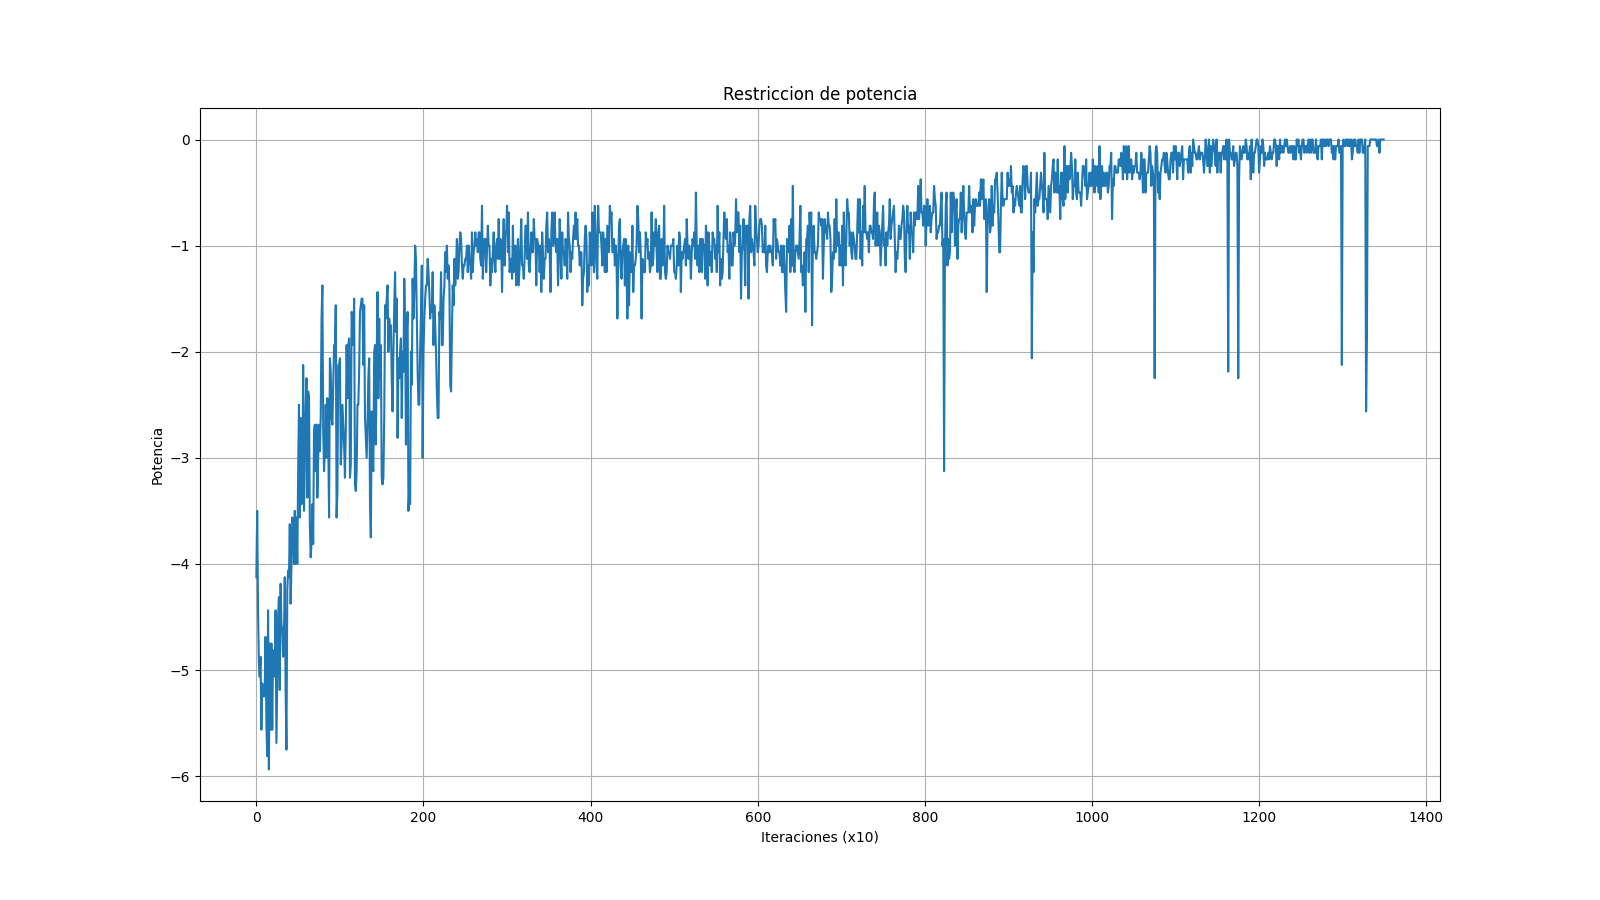
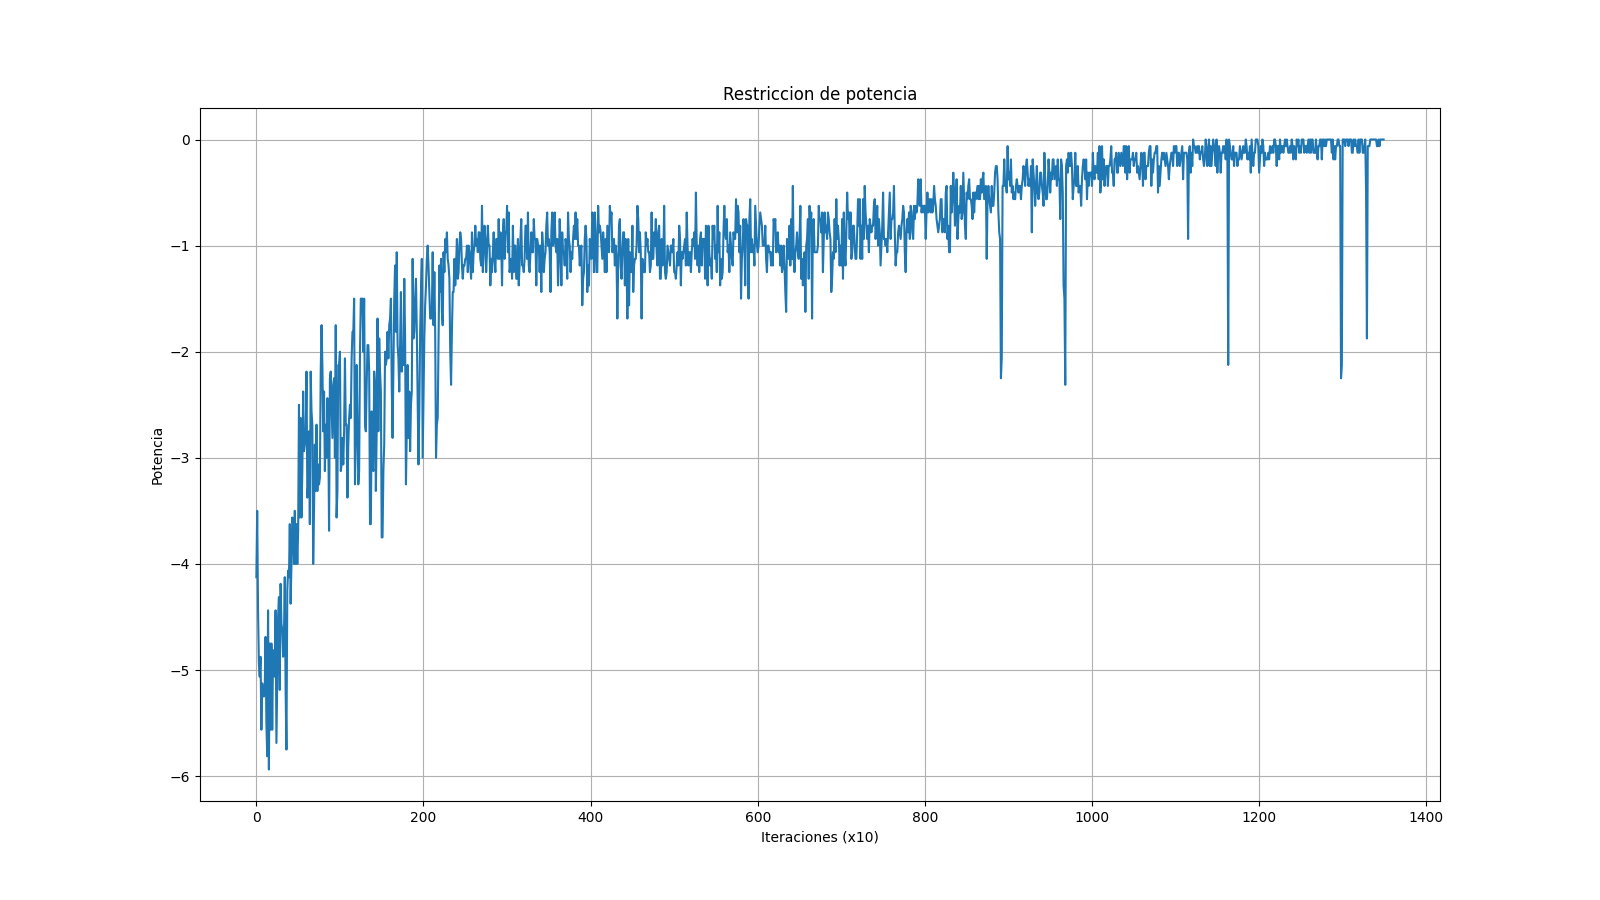
Probamos rate por enlace, dado que eligió tal canal

diff --git a/RUN/utils.py b/RUN/utils.py
@@ -170,7 +170,7 @@ def get_gnn_inputs(x_tensor, channel_matrix_tensor):
     return input_list
 
 def objective_function(rates):
-    sum_rate = -torch.sum(rates, dim=1)
+    sum_rate = -torch.sum(rates, dim=(1,2))
     return sum_rate
 
 # def power_constraint(phi, pmax):
@@ -196,158 +196,77 @@ def get_rates(phi, channel_matrix_batch, sigma):
     rates = torch.log(numerator / denominator + 1)
     return rates
 
+
+# # # Lo que hizo mauri:
+def nuevo_get_rates(phi, channel_matrix_batch, sigma, p0=4):
+    """
+    phi: [batch_size, num_links, num_channels] (potencia por canal)
+    channel_matrix_batch: [batch_size, num_links, num_links] (ganancias |h_ji|^2)
+    sigma: ruido
+    p0: potencia por canal cuando está activo
+    """
+    batch_size, num_links, num_channels = phi.shape
+
+    # # Calcular potencia total por enlace (p_i)
+    # p_i = torch.sum(phi, dim=2)  # [64, 5]
+
+    rates = torch.zeros(batch_size, num_links, num_channels)  
+
+    for ch in range(num_channels):
+            p_i = phi[:,:,ch]
+            # Obtener ganancias directas (|h_ii|^2)
+            diag_gains = torch.diagonal(channel_matrix_batch, dim1=1, dim2=2)  # [64, 5]
+            
+            # Calcular numerador |h_ii|^2 * p_i
+            numerator = diag_gains * p_i  # [64, 5]
+            # Calcular interferencia (término ∑)
+            interference = torch.zeros(batch_size, num_links, device=phi.device)
+            
+            # Máscara para enlaces transmitiendo en este canal
+            transmitting = (phi[:, :, ch] > 0).float()  # [batch_size, num_links]
+            
+            # Potencia transmitida en este canal (p0 o 0)
+            p_ch = transmitting*p0  # [batch_size, num_links]
+            
+            # Calcular interferencia generada por este canal
+            interf_ch = torch.matmul(channel_matrix_batch.float(), p_ch.unsqueeze(2).float()).squeeze(2)  # [batch_size, num_links]
+            
+            # Restar auto-interferencia
+            interf_ch = torch.abs(interf_ch - diag_gains * p_ch)
+            
+            # Aplicar factor de escala (p_i^T/p0)
+            scale_factor = (phi[:, :, ch] > 0).float()  # [batch_size, num_links]
+            interf_ch = interf_ch * (p_i / p0) * scale_factor
+            interference += interf_ch
+            rates[:,:,ch]= torch.log1p(numerator / (sigma + interference))  # [batch_size, num_links]
+    return rates
+
+
 # def nuevo_get_rates(phi, channel_matrix_batch, sigma, p0=4):
-#     # phi = torch.squeeze(phi, dim = 2) #(64,5,4) , channel_matrix_batch (64,5,5)
-#     numerator = torch.unsqueeze(torch.diagonal(channel_matrix_batch, dim1=1, dim2=2) * phi, dim=2)
-#     expanded_phi = phi.unsqueeze(2)
-#     denominator = (torch.matmul(channel_matrix_batch.float(), expanded_phi.float()) - numerator)*expanded_phi/p0 + sigma
-#     rates = torch.log(numerator / denominator + 1)
-#     return rates
-
-# Lo que había hecho yo:
-# def nuevo_get_rates(phi, channel_matrix_batch, sigma, p0=4):
-#     # phi: [batch_size, num_links, output_dim]
-#     # channel_matrix_batch: [batch_size, num_links, num_links]
-#     channel_matrix_batch = channel_matrix_batch.float()
-#     phi = phi.float()
-
-#     batch_size, num_links, output_dim = phi.shape
-
-#     rates = torch.zeros((batch_size, num_links), device=phi.device)
-
-#     for k in range(output_dim):  # Para cada canal
-#         # phi_k: [batch_size, num_links] (nodos que usan canal k)
-#         phi_k = phi[:, :, k]  # Potencia asignada al canal k para cada nodo
-
-#         # h_ii: [batch_size, num_links] (ganancia directa en canal k)
-#         h_ii = torch.diagonal(channel_matrix_batch, dim1=1, dim2=2)
-
-#         # Interferencia: suma de potencias de otros nodos en canal k
-#         # channel_matrix_batch: [batch_size, num_links, num_links]
-#         # phi_k: [batch_size, num_links]
-#         interference = torch.matmul(channel_matrix_batch, phi_k.unsqueeze(2)).squeeze(2) - h_ii * phi_k
-
-#         # Numerador y denominador según la fórmula
-#         numerator = h_ii * phi_k
-#         denominator = sigma + interference * (phi_k / p0)
-
-#         # Solo sumar la tasa si el nodo está usando ese canal (phi_k > 0)
-#         rates += torch.log1p(numerator / (denominator + 1e-10)) * (phi_k > 0).float()
-
-#     return rates  # [batch_size, num_links]
-
-# # Lo que hizo mauri:
-# def nuevo_get_rates(phi, channel_matrix_batch, sigma, p0=4):
 #     """
-#     phi: [batch_size, num_links, num_channels] (potencia por canal)
-#     channel_matrix_batch: [batch_size, num_links, num_links] (ganancias |h_ji|^2)
-#     sigma: ruido
-#     p0: potencia por canal cuando está activo
+#     phi: [B, L, C] (potencia por canal)
+#     channel_matrix_batch: [B, L, L] (ganancias |h_ji|^2)
+#     sigma: [B] o [B, 1]
 #     """
-#     batch_size, num_links, num_channels = phi.shape
-    
-#     #[0,0,p0]. p0
-#     #[0,p0,0] p0
-#     #[0,0,0] 0
-#     #[p0,0,0] p0
-#     #[p0,0,0] p0
-#     # Calcular potencia total por enlace (p_i)
-#     p_i = torch.sum(phi, dim=2)  # [64, 5]
-#     # Obtener ganancias directas (|h_ii|^2)
-#     diag_gains = torch.diagonal(channel_matrix_batch, dim1=1, dim2=2)  # [64, 5]
-    
-#     # Calcular numerador |h_ii|^2 * p_i
-#     numerator = diag_gains * p_i  # [64, 5]
-#     # Calcular interferencia (término ∑)
-#     interference = torch.zeros(batch_size, num_links, device=phi.device)
-    
-#     for ch in range(num_channels):
-#         # Máscara para enlaces transmitiendo en este canal
-#         transmitting = (phi[:, :, ch] > 0).float()  # [batch_size, num_links]
-        
-#         # Potencia transmitida en este canal (p0 o 0)
-#         p_ch = transmitting*p0  # [batch_size, num_links]
-        
-#         # Calcular interferencia generada por este canal
-#         interf_ch = torch.matmul(channel_matrix_batch.float(), p_ch.unsqueeze(2).float()).squeeze(2)  # [batch_size, num_links]
-        
-#         # Restar auto-interferencia
-#         interf_ch = torch.abs(interf_ch - diag_gains * p_ch)
-        
-#         # Aplicar factor de escala (p_i^T/p0)
-#         scale_factor = (phi[:, :, ch] > 0).float()  # [batch_size, num_links]
-#         interf_ch = interf_ch * (p_i / p0) * scale_factor
-#         interference += interf_ch
-#     # Calcular tasa final
-#     rates = torch.log1p(numerator / (sigma + interference))  # [batch_size, num_links]
-#     return rates
+#     B, L, C = phi.shape
+#     diag_gains = torch.diagonal(channel_matrix_batch, dim1=1, dim2=2)  # [B, L]
 
+#     rates = torch.zeros(B, L, C, device=phi.device)
 
-# # Forma vectorizada de nuevo_get_rates
-# def nuevo_get_rates(phi: torch.Tensor,
-#                            H: torch.Tensor,
-#                            sigma: float,
-#                            p0: float = 4.0) -> torch.Tensor:
-#     """
-#     Versión vectorizada de get_rates.
+#     for ch in range(C):
+#         p_ch = phi[:, :, ch]  # [B, L]
 
-#     Args:
-#         phi: Tensor[batch, m, c], asignación de potencia (0 o p0) por enlace y canal.
-#         H:   Tensor[batch, m, m], matriz de ganancias |h_ji|^2.
-#         sigma: ruido térmico (escalar).
-#         p0:  potencia por canal cuando está activo.
-#         eps: término pequeño para evitar div/0.
+#         numerator = diag_gains * p_ch  # [B, L]
 
-#     Returns:
-#         rates: Tensor[batch, m], tasa de cada enlace.
-#     """
-#     H   = H.float()
-#     phi = phi.float()
-    
-#     batch, m, c = phi.shape
+#         # Interferencia generada por otros enlaces en el mismo canal
+#         interf_ch = torch.matmul(channel_matrix_batch.float(), p_ch.unsqueeze(-1)).squeeze(-1)  # [B, L]
+#         interf_ch = interf_ch - diag_gains * p_ch  # quitar auto-interferencia
 
-#     p_i = phi.sum(dim=2)                                  
+#         sinr = numerator / (sigma.unsqueeze(-1) + interf_ch.clamp(min=0))  # [B, L]
+#         rates[:, :, ch] = torch.log1p(sinr)
 
-#     diag_gains = torch.diagonal(H, dim1=1, dim2=2)        
+#     mask = (phi > 0).float()
+#     rates = rates * mask  #
 
-#     numerator = diag_gains * p_i                          
+#     return rates  # [B, L, C]
 
-#     interf_all = torch.matmul(H, phi)                    
-
-#     interf_self_sub = torch.abs(interf_all - diag_gains.unsqueeze(-1) * phi)
-
-#     mask   = (phi > 0).float()                             
-#     scale  = (p_i.unsqueeze(-1) / (p0)) * mask      
-#     interference = (interf_self_sub * scale).sum(dim=2)   
-
-#     sinr  = numerator / (sigma + interference)       
-#     rates = torch.log1p(sinr)                             
-
-#     return rates
-
-def nuevo_get_rates(phi, H, sigma, p0=4):
-    B, L, C = phi.shape
-
-    # Ganancias directas |h_ii|^2  → [B, L]
-    diag_h = torch.diagonal(H, dim1=1, dim2=2)  
-
-    # Expande H para tener dimensión de canal  → [B, L, L, C]
-    H_ch = H.unsqueeze(-1).expand(-1, -1, -1, C)
-
-    # Numerador por canal  → [B, L, C]
-    num = diag_h.unsqueeze(-1) * phi
-
-    # Interferencia por canal:
-    #  1) expandir phi para multiplicar: [B,1,L,C]
-    phi_exp = phi.unsqueeze(1)
-    #  2) element-wise por H_ch: [B,L,L,C]
-    interf = (H_ch.float() * phi_exp.float()).sum(dim=2)   # suma sobre j
-    #  3) quitar auto-interferencia y recortar negativos
-    interf = (interf - num).clamp(min=0)   # [B, L, C]
-
-    # SINR y tasa por canal
-    sinr     = num / (sigma.unsqueeze(-1) + interf)
-    rates_ch = torch.log1p(sinr)          # [B, L, C]
-
-    # Suma sobre los C canales → tasa total por enlace
-    return rates_ch.sum(dim=2)            # [B, L]

diff --git a/RUN/train.py b/RUN/train.py
@@ -100,9 +100,11 @@ def run(building_id=990, b5g=False, num_links=5,num_channels = 3, num_layers=5, 
             power_constr_mean = torch.mean(power_constr, dim = 0)
             
             #rates = get_rates(phi, channel_matrix_batch, sigma,p0=p0)
-            rates = nuevo_get_rates(phi, channel_matrix_batch, sigma,p0=p0) # [64, 5]
+            rates = nuevo_get_rates(phi, channel_matrix_batch, sigma,p0=p0) # [64, 5,3]
+
             sum_rate = objective_function(rates).unsqueeze(-1) #[64,1]
             sum_rate_mean = torch.mean(sum_rate, dim = 0)
+            
             # Actualización de la penalización
             mu_k = mu_update(mu_k, power_constr, eps)
 
